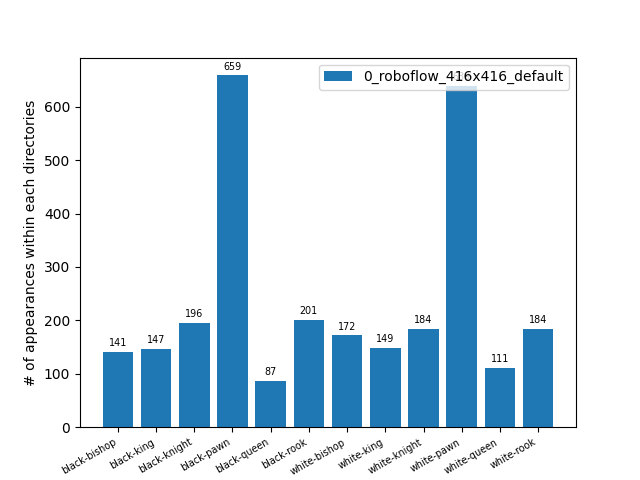
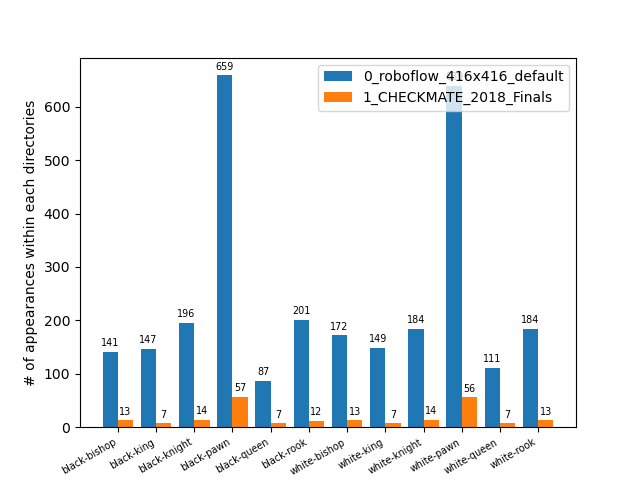
Update data visu

diff --git a/ObjectDetection/utils/labelDistribution.py b/ObjectDetection/utils/labelDistribution.py
@@ -8,7 +8,7 @@ from tqdm import tqdm
 
 _path_data = 'data'
 
-_typeSet = ['train', 'test', 'valid']
+_typeSet = ['.', 'train', 'test', 'valid']
 
 _cls = ['black-bishop', 'black-king', 'black-knight', 'black-pawn', 'black-queen', 'black-rook',
         'white-bishop', 'white-king', 'white-knight', 'white-pawn', 'white-queen', 'white-rook']
@@ -144,10 +144,10 @@ def analyse_folder(path):
 
         path_subdirectory_labels = os.path.join(path_subdirectory, 'labels')
         if not os.path.exists(path_subdirectory_labels):
-            print(f'  - Subdirectory "{subdirectory}" doesn\'t contain a folder "labels"! Ignoring it...')
+            print(f'  - Subdirectory "{subdirectory}/" doesn\'t contain a folder "labels"! Ignoring it...')
             continue
 
-        print(f'  {subdirectory}...')
+        print(f'  - "{subdirectory}/"...')
 
         # Count the labels of this subdirectory
         data_folder[subdirectory] = count_labels(path_subdirectory_labels)

diff --git a/ObjectDetection/data/README.md b/ObjectDetection/data/README.md
@@ -1,0 +1,16 @@
+
+# Some visualization
+
+### Number of bounding boxes, per class, for each dataset
+
+![image](labels_distribution.PNG)
+
+### Repartition in '%' of the bounding boxes, per class, for each dataset
+
+![image](labels_distribution.PNG)
+
+### Overall dumped info
+
+```{r comment=''}
+cat(readLines('labels_distribution'), sep = '\n')
+```
